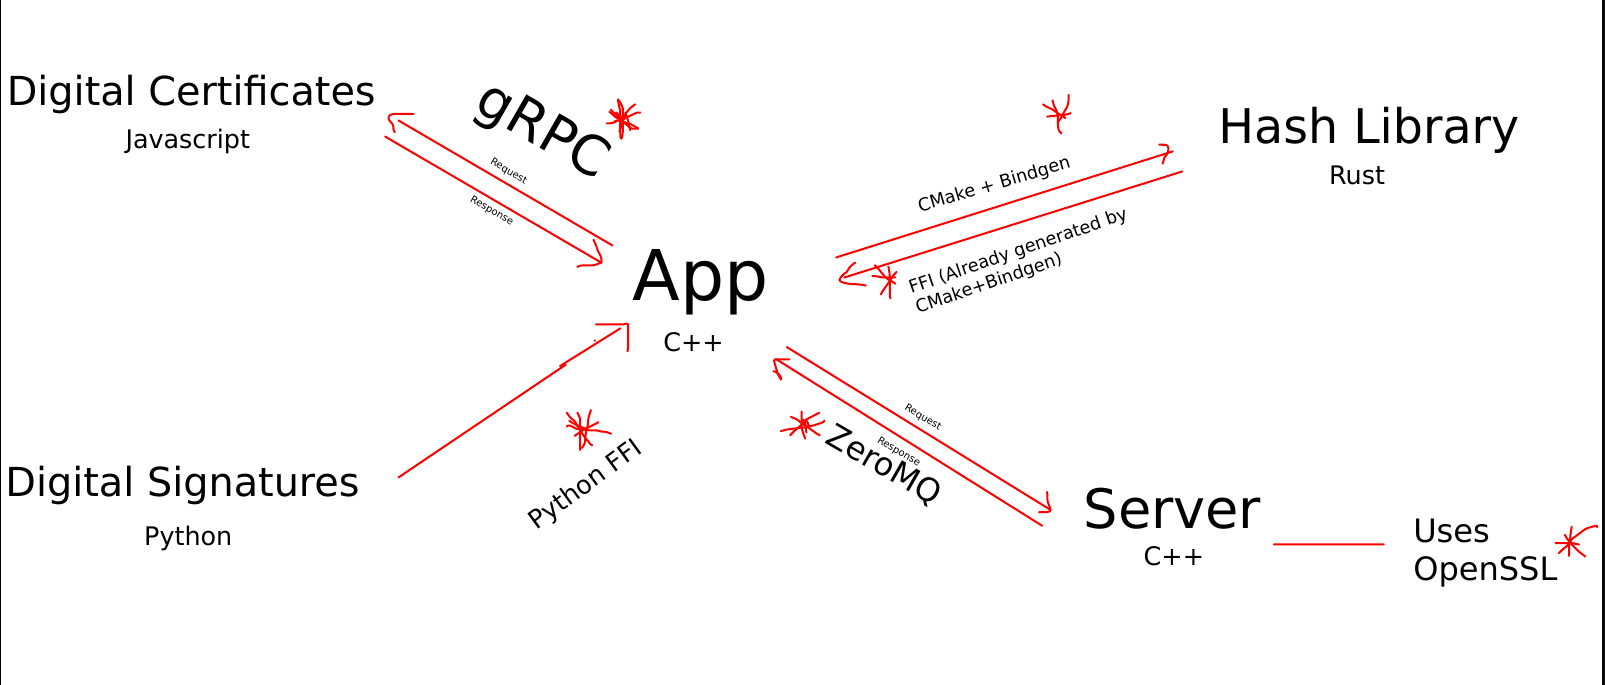
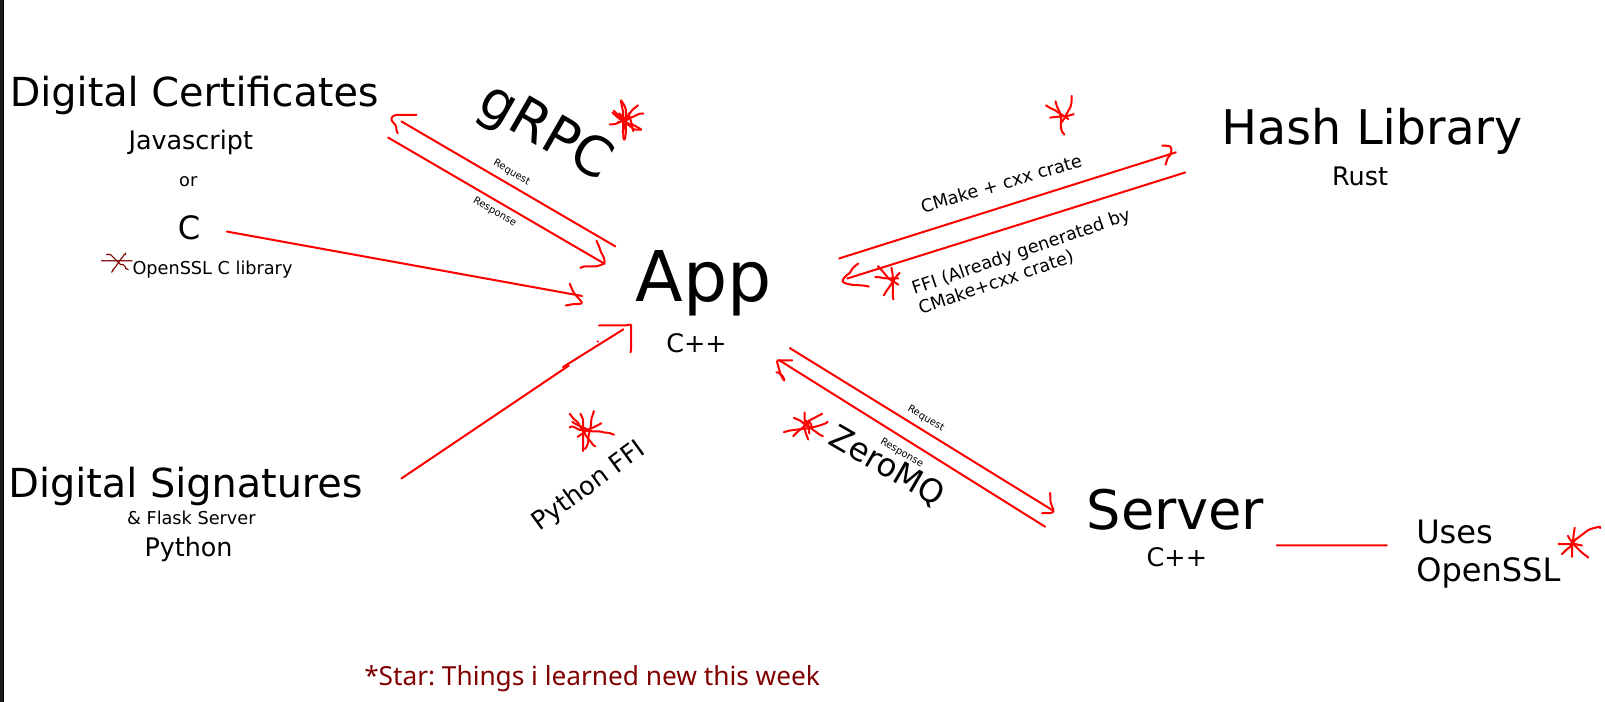
Update design

diff --git a/README.md b/README.md
@@ -6,13 +6,17 @@
   <a href="https://github.com/adi-g15/crypto-testbed/actions/workflows/cmake.yml"><imt src="https://github.com/adi-g15/crypto-testbed/actions/workflows/cmake.yml/badge.svg"/></a>
 </div>
 
+> NOTE: It is INTENTIONALLY using so much for such a single thing, since I wanted to try how they work together
+
 Coexistence of C++, Rust, JavaScript and Python.
 And multiple ways of calling functions from different languages:
 
+* C -> C (calling your parents isn't tough right ❤)
 * C++ <-> Rust : FFI (using cbindgen)
+* Rust -> Python : REST (HTTP requests)
 * C++ <-> C++  : ZeroMQ (networking; client-server)
 * C++ -> Python : FFI (using pybind11)
-* C++ <-> JavaScript : gRPC (networking; server-server (the C++ server contacting gRPC server so then a client actually))
+* C++ <-> JavaScript : gRPC (INCOMPLETE; networking; server-server (the C++ server contacting gRPC server so then a client actually))
 
 > CMake builds Cargo (Not exactly a language, but this was new for me, using a CMake script to build rust code triggered by CMake)
 
